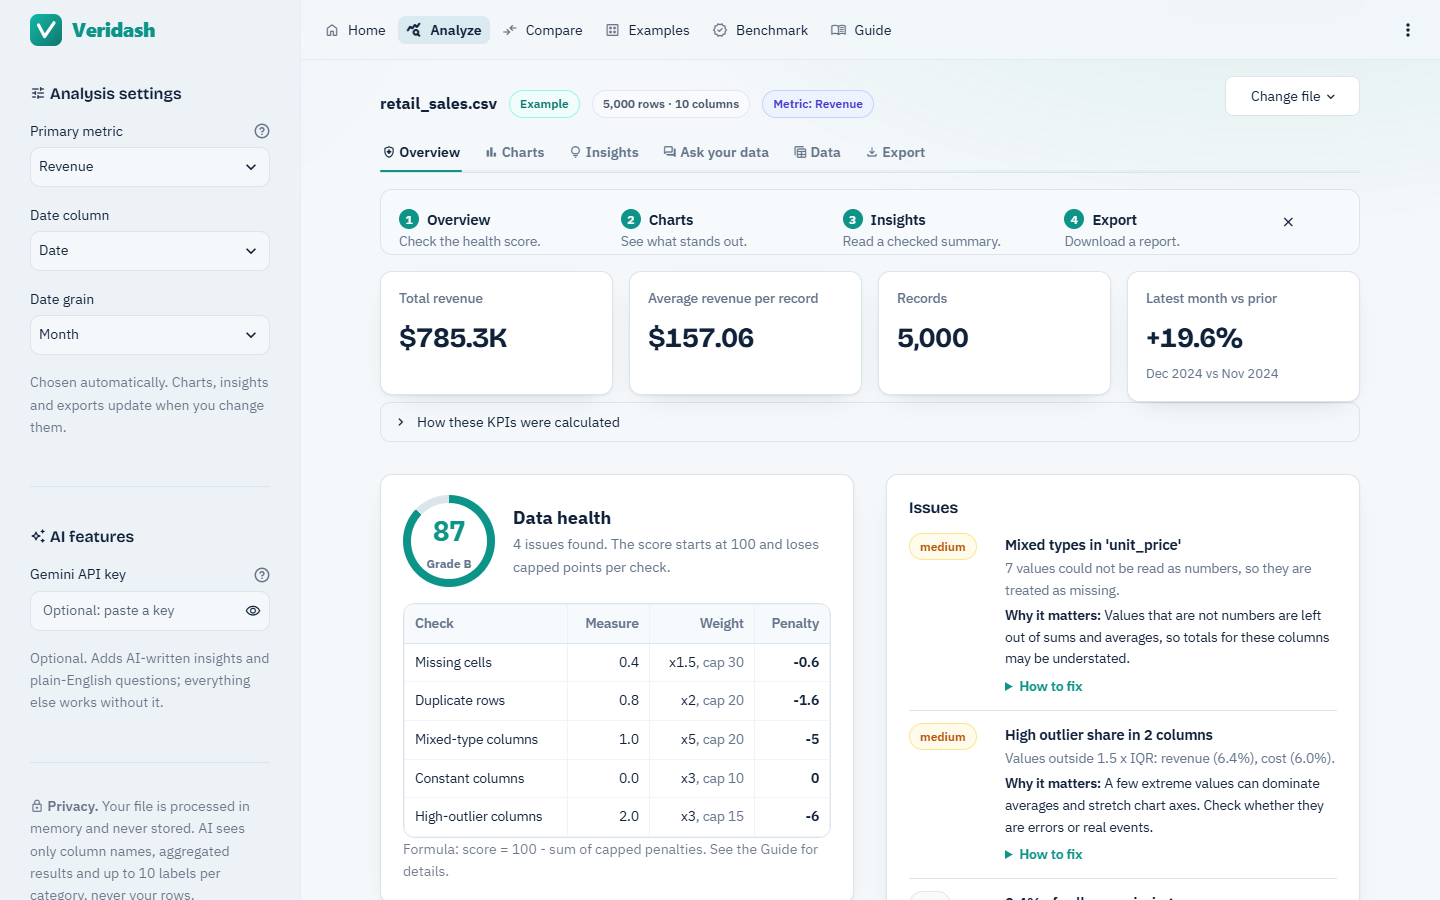
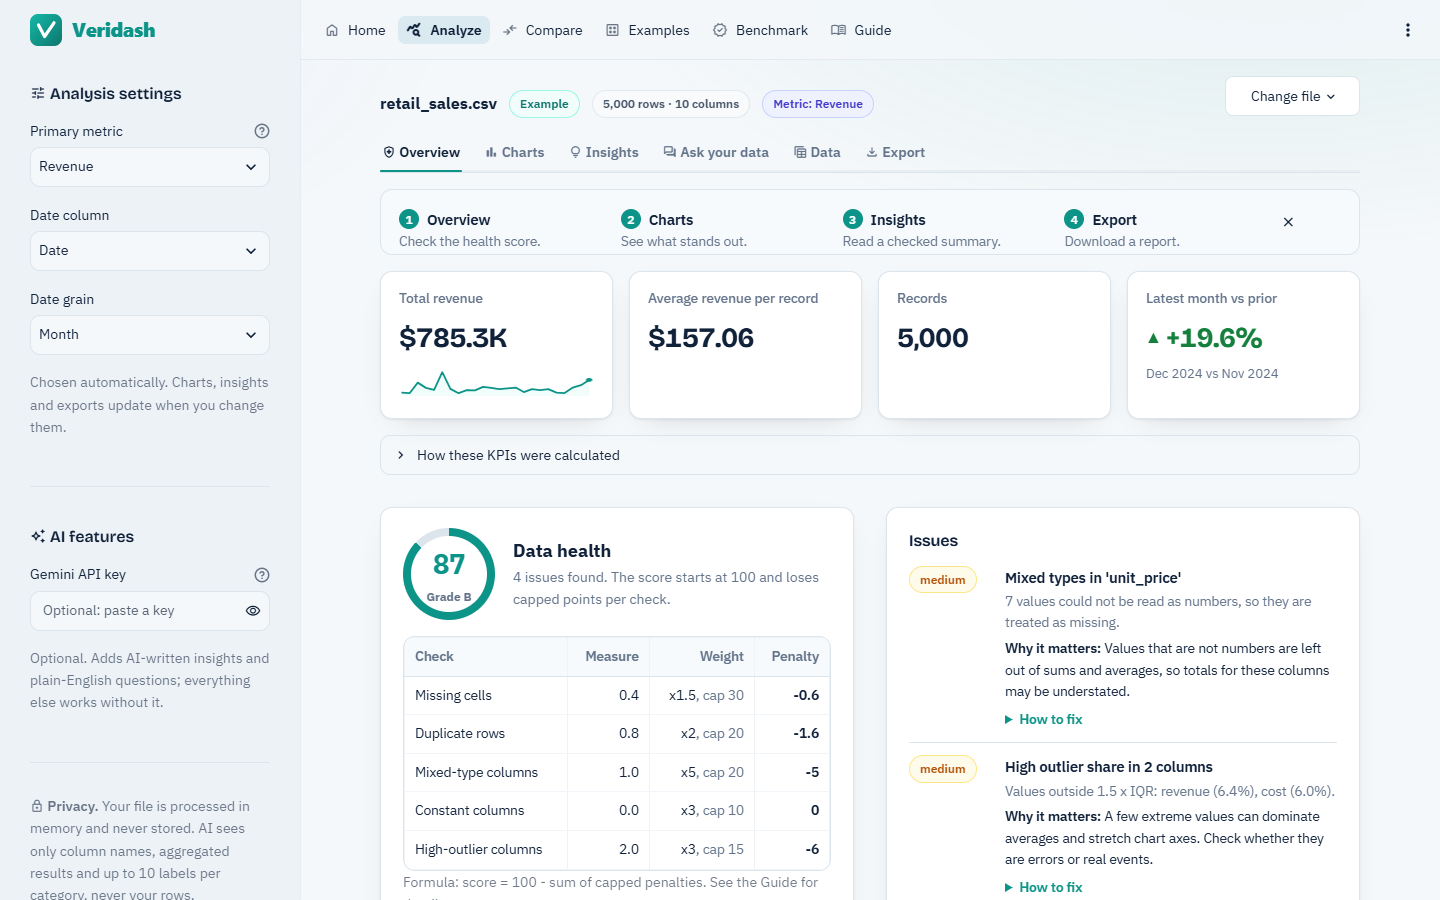
docs: describe the new details and refresh the pictures
The README mentions the colored changes and trend line in the headline
numbers, copying the insights as text, per-answer downloads and clearing
on Ask your data, and the completeness bars; the tour pictures, README
screenshots and demo GIF show the current interface.

diff --git a/README.md b/README.md
@@ -70,6 +70,7 @@ exports for Excel, PDF and Power BI. A second file can be compared with the firs
 - **Smart parsing:** currency, percentages and accounting negatives such as (123) are read as numbers.
 - **Take the clean data with you:** the Data tab downloads the cleaned data (or just the rows matching a
   search) and a data dictionary describing every column.
+- **See gaps at a glance:** the column profile shows how complete each column is as a small bar.
 
 ### Smart charts and KPIs
 - **Chosen by data shape:** trends over time, what drove the latest change, top-N rankings, share of total, rates by group, distributions,
@@ -77,6 +78,8 @@ exports for Excel, PDF and Power BI. A second file can be compared with the firs
 - **One-sentence insights:** each chart states what it shows, using numbers from its own query.
 - **"How this was calculated":** every chart and KPI shows the exact SQL that ran and the table it returned.
 - **Adjustable:** the primary metric, date column and date grain can be changed at any time.
+- **Readable at a glance:** changes in the headline numbers are green with an up arrow or red with a down
+  arrow, and the main total carries a small trend line.
 - **Light and dark mode:** the app follows the visitor's system setting, with color-blind-safe chart palettes validated for both.
 
 ### AI insights with fact-checking
@@ -90,6 +93,7 @@ exports for Excel, PDF and Power BI. A second file can be compared with the firs
 - **Eight languages:** AI insights can be written in English, Spanish, French, German, Portuguese, Italian, Dutch
   or Vietnamese. Numbers keep one format in every language, so the fact-check works the same way.
 - **Works without a key:** rule-based insights with the same structure are always available.
+- **Copy as plain text:** the insights in tidy headings and bullets, ready to paste into an email.
 - **Check anyone's numbers:** paste a paragraph from a colleague's report or an AI chat, and every number in it
   is checked against the file, with the reason for any that fail.
 
@@ -107,7 +111,8 @@ exports for Excel, PDF and Power BI. A second file can be compared with the firs
   as a table, the largest records and missing values per column. They run plain SQL and need no key.
 - **Plain-English questions:** Gemini writes a single SQL query, which Veridash validates before running.
 - **Strict safety rules:** read-only queries only, no file access, a row limit and a timeout.
-- **Transparent results:** the SQL, the result table and an automatic chart are shown together.
+- **Transparent results:** the SQL, the result table and an automatic chart are shown together. Each answer
+  can be downloaded as a CSV, and the list of answers can be cleared.
 - **SQL mode:** without a key, users can write their own queries under the same safety rules.
 
 ### Exports: a web report, Excel, PDF, the Power BI Starter Kit and an audit trail
